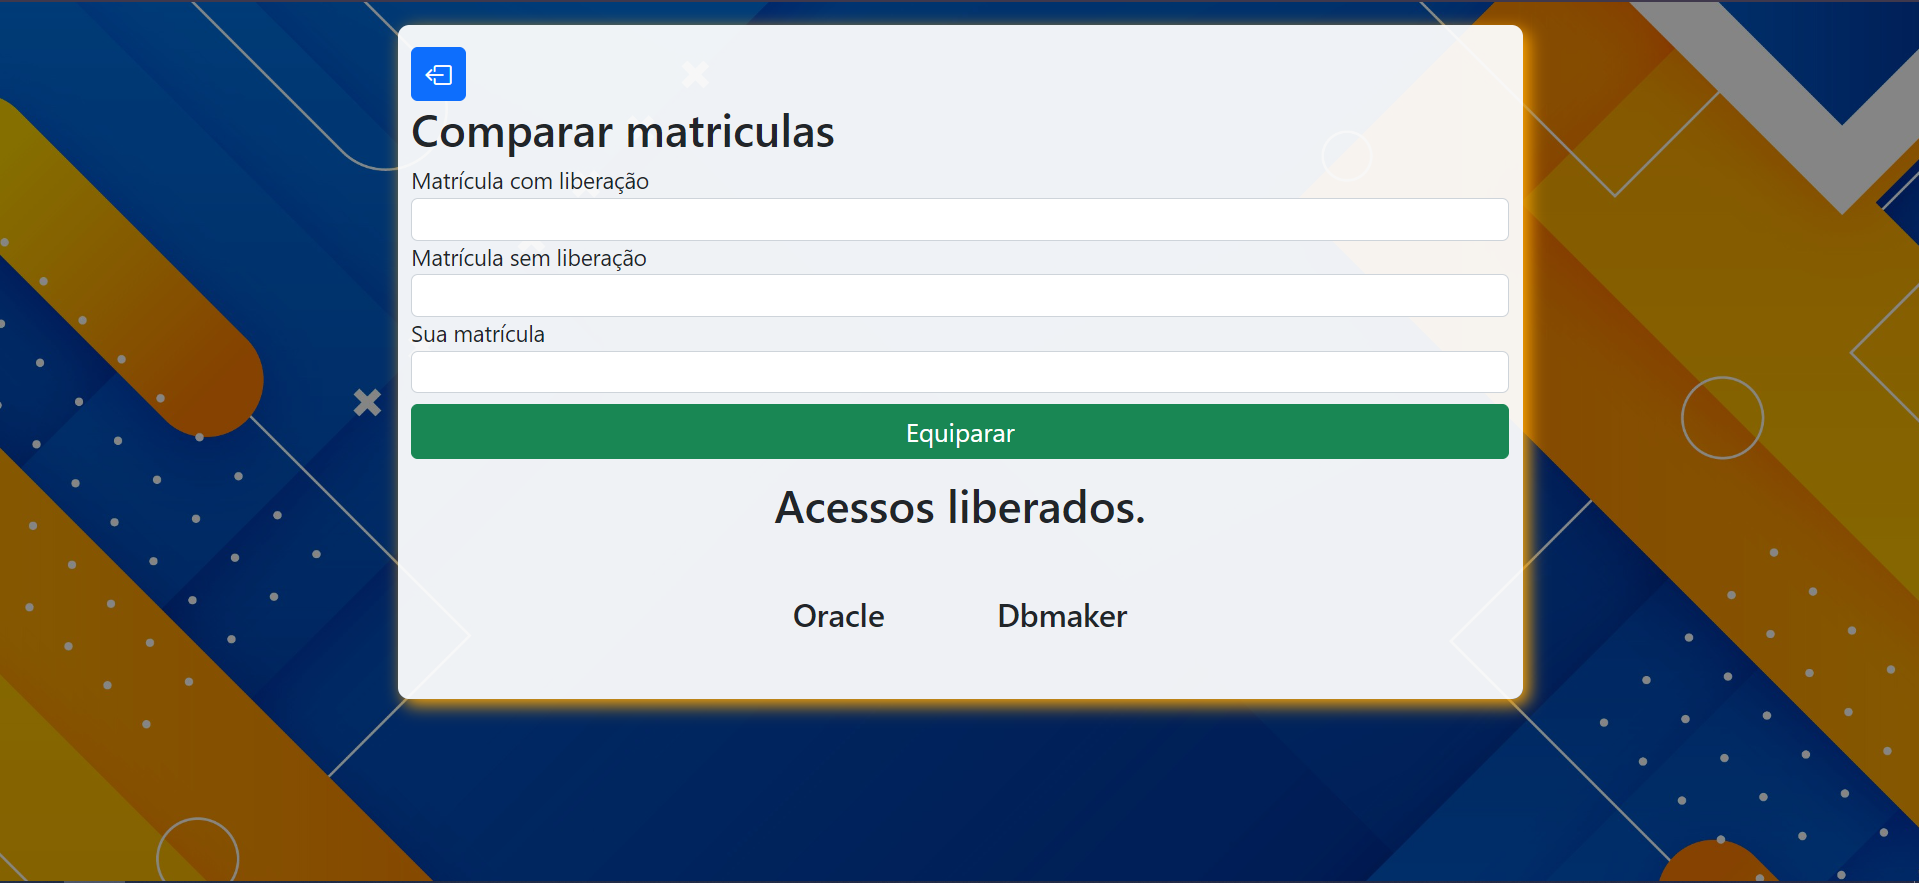
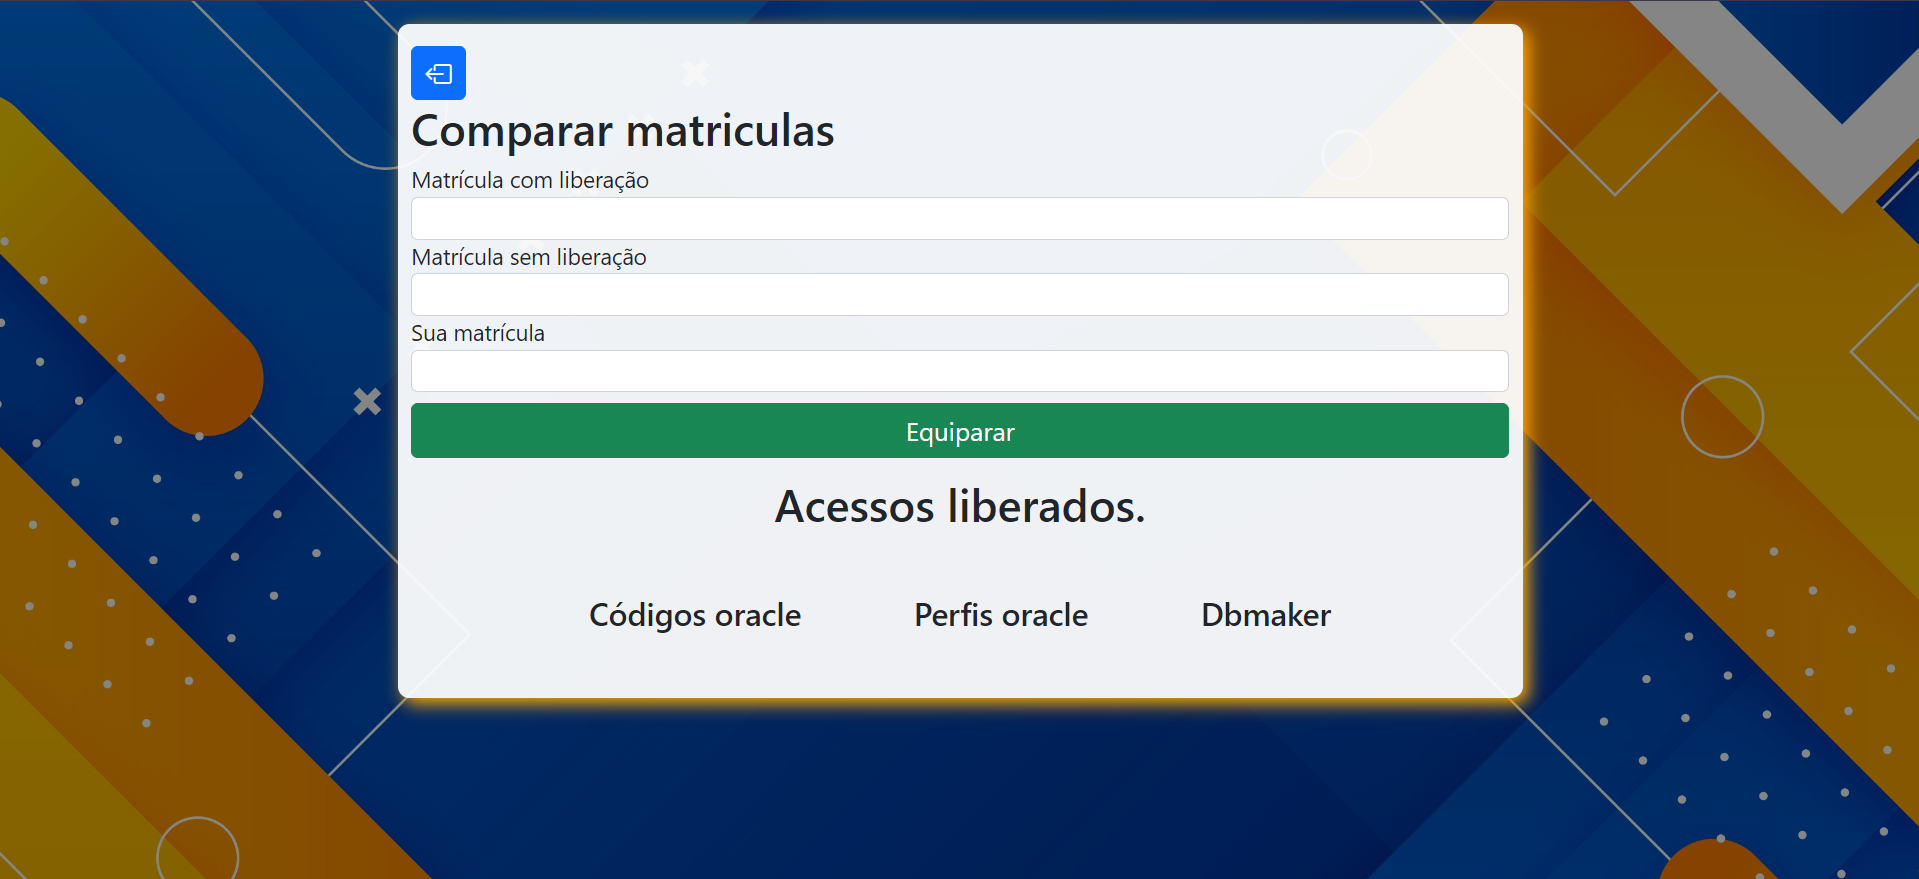
Adicionado novas informações
Adicionado uma nova coluna na tela de equiparação de matriculas para identificar o código de liberação para cada perfil liberado no oracle

diff --git a/templates/usuarios/comparacao.html b/templates/usuarios/comparacao.html
@@ -29,7 +29,13 @@
             </div>
             <div class="liberacoes_realizadas">
                 <div class="oracle">
-                    <h3>Oracle</h3>
+                    <h3>Códigos oracle</h3>
+                    {% for liberacao in oracle %}
+                    <p>{{ liberacao }}</p>
+                    {% endfor %}
+                </div>
+                <div class="oracle">
+                    <h3>Perfis oracle</h3>
                     {% for liberacao in perfis %}
                     <p>{{ liberacao }}</p>
                     {% endfor %}

diff --git a/apps/usuarios/views.py b/apps/usuarios/views.py
@@ -21,8 +21,8 @@ def comparar(request):
             usuario_com_lib=form['usuario_com_lib'].value()
             usuario_sem_lib=form['usuario_sem_lib'].value()
             usuario_efetua_liberacao=form['usuario_efetua_liberacao'].value()
-            perfis, dbmaker, texto = LiberarMatricula.comparacao(usuario_com_lib, usuario_sem_lib, usuario_efetua_liberacao)
-        return render(request, 'usuarios/comparacao.html', {"form": form, 'perfis': perfis, 'dbmaker': dbmaker, 'texto': texto})
+            perfis, oracle, dbmaker, texto = LiberarMatricula.comparacao(usuario_com_lib, usuario_sem_lib, usuario_efetua_liberacao)
+        return render(request, 'usuarios/comparacao.html', {"form": form, 'perfis': perfis, 'oracle': oracle, 'dbmaker': dbmaker, 'texto': texto})
     return render(request, 'usuarios/comparacao.html', {"form": form})
 
 def liberarVendas(request):

diff --git a/apps/usuarios/helpers.py b/apps/usuarios/helpers.py
@@ -136,7 +136,7 @@ class LiberarMatricula():
 
         connection.commit()
         connection.close()
-        return perfis, dbmaker, texto
+        return perfis, oracle, dbmaker, texto
     
     def liberar(usuario_lib, usuario_efetua_liberacao):
         try:          
